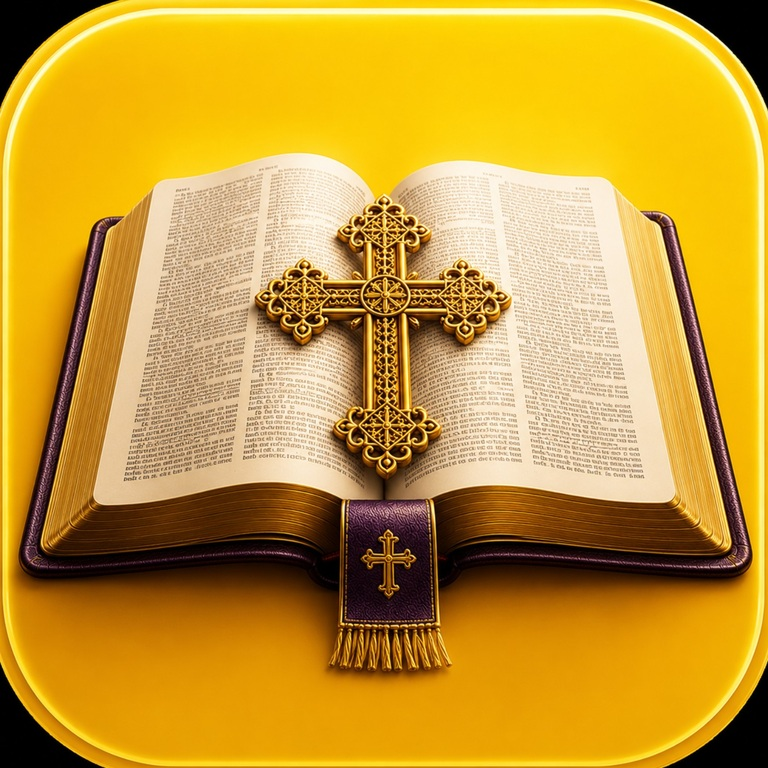
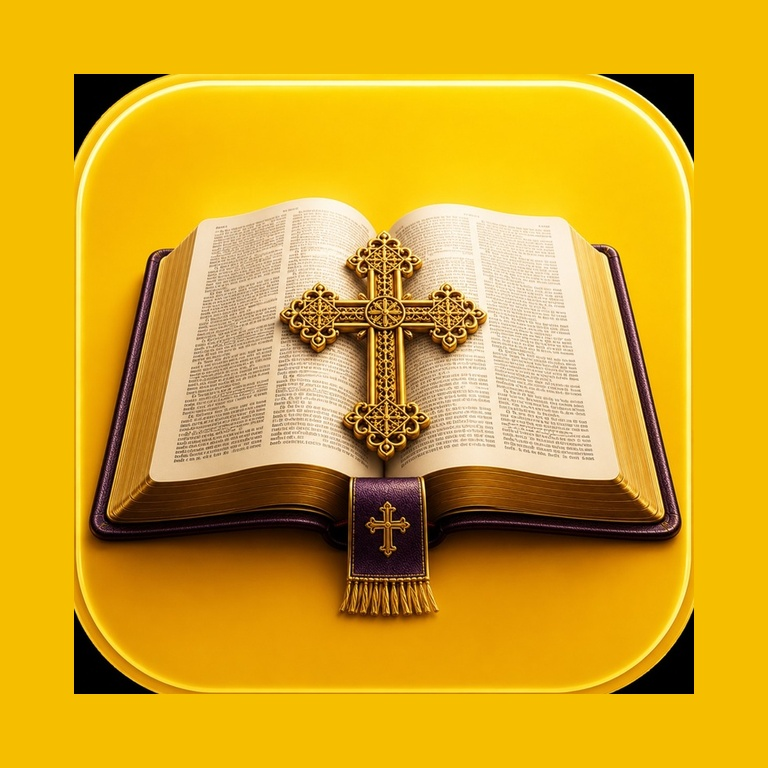
Add files via upload

diff --git a/styles.css b/styles.css
@@ -615,9 +615,8 @@ body.light-mode .dict-word.word-pressing{
 .home-card strong{font-size:20px;margin-bottom:3px}
 .home-card small{font-size:13px}
 .home-card-daily{background:linear-gradient(145deg,#fffdf1 0%,#fff0bc 48%,#f2cf70 100%);border-color:#c79b27}
-.daily-verse-icon{position:relative;background:linear-gradient(155deg,#fff8d3,#e7b845)!important;color:#5f4510!important;font-size:29px;overflow:visible}
-.daily-verse-icon::before{content:'☀';position:absolute;right:4px;top:0;font-size:20px;color:#e89716;text-shadow:0 1px 0 #fff}
-.daily-verse-icon span{position:relative;z-index:1;filter:drop-shadow(0 2px 1px rgba(0,0,0,.14))}
+.daily-verse-icon{position:relative;background:#f4c528!important;color:#5f4510!important;overflow:hidden;padding:0}
+.daily-verse-icon img{display:block;width:116%;height:116%;object-fit:cover;border-radius:14px;transform:scale(1.08);transform-origin:center}
 .home-enter-small{margin-top:14px}
 .daily-verse-dialog{max-width:610px}
 .daily-verse-heading{display:flex;align-items:center;gap:12px;margin:0 38px 16px 0}
